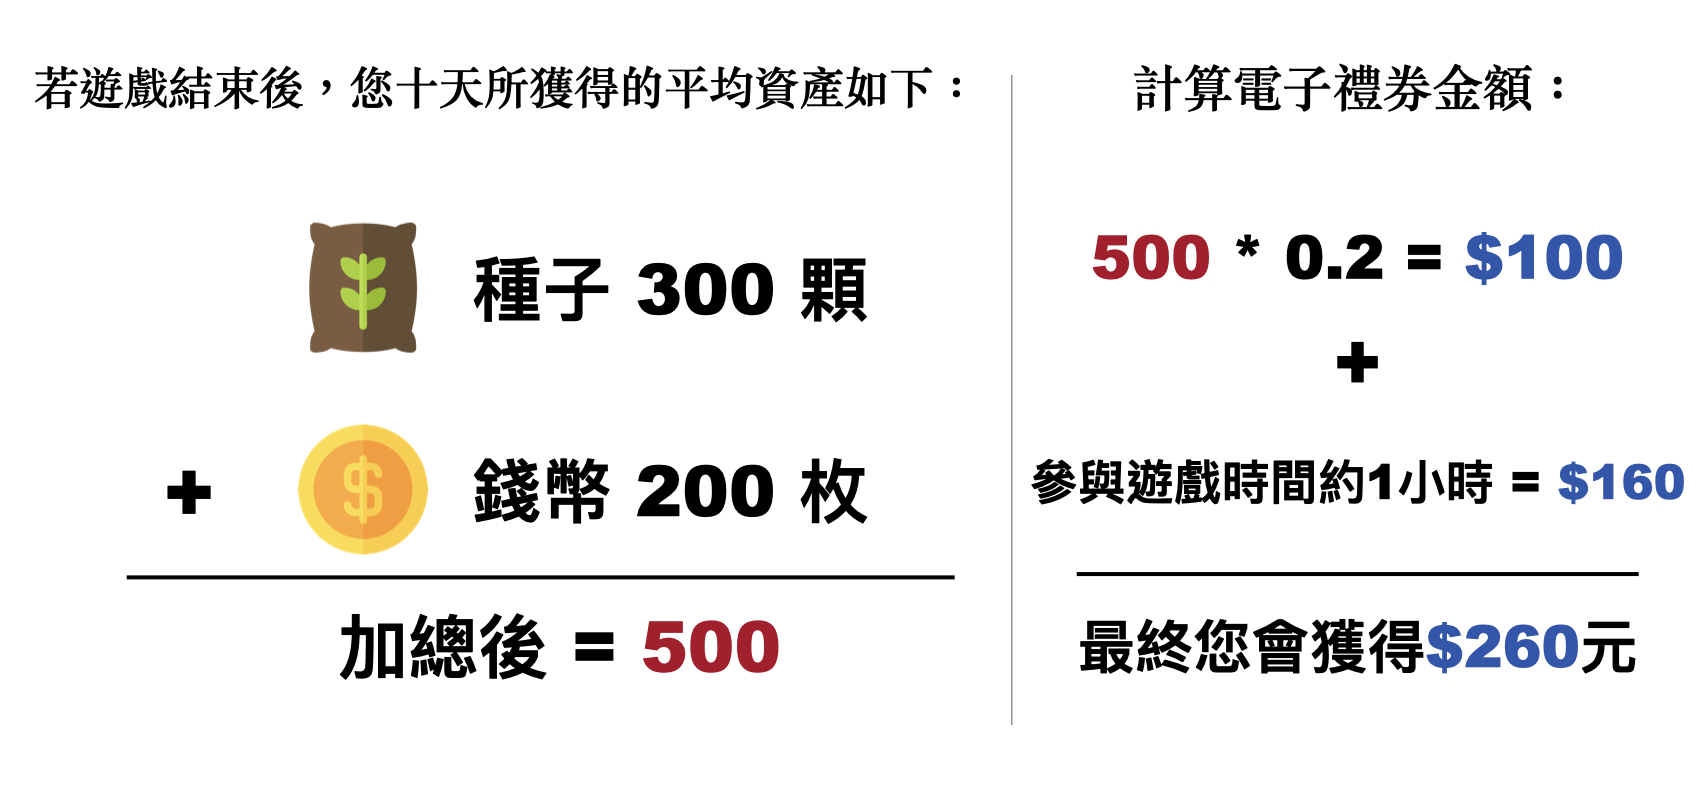
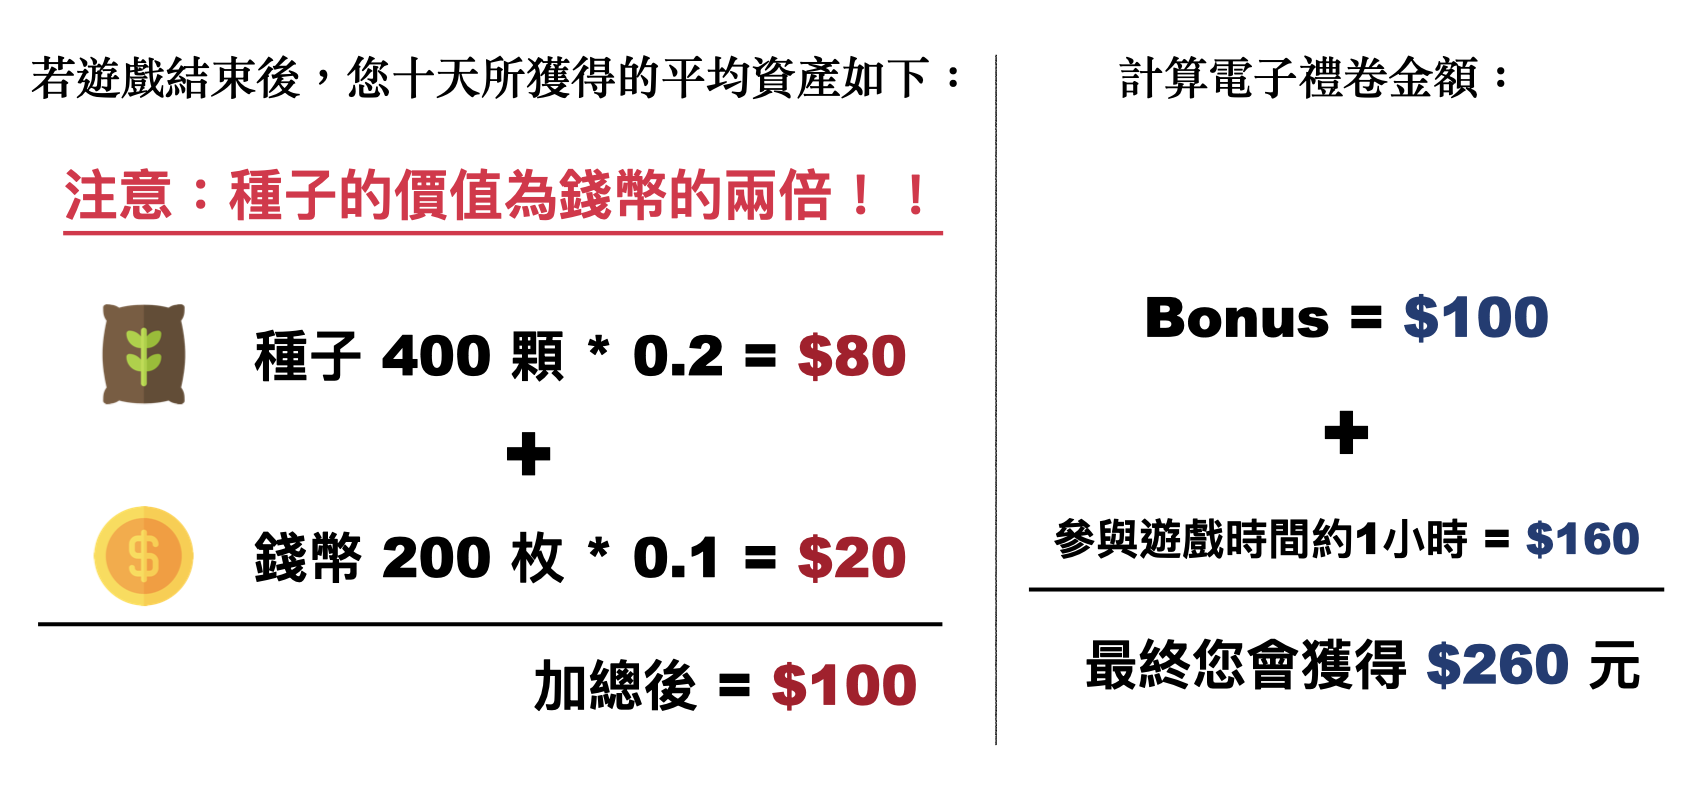
Add files via upload

diff --git a/meteor_instruction_1/index.html b/meteor_instruction_1/index.html
@@ -62,7 +62,8 @@
                         <blockquote class="instr">
                             10天結束後，除了參與遊戲的固定報酬(NT$160/時)，系統將會計算玩家<b>10天總共的資產平均數量</b>，且利用以下的公式來計算支付玩家額外的電子禮券：<br><br>
 
-                            <b>(10天平均種子數＋10天平均錢幣數) x 0.2 = 玩家額外所獲得的金額</b>
+                            <b>10天平均種子數 x 0.2 ＋ 10天平均錢幣數 x 0.1 = 玩家額外所獲得的金額</b><br><br>
+                            <p style="font-size: 24px;"><i>注意：種子的價值為錢幣的兩倍！！！</i></p>
                         </blockquote>
                     </div>
                     <div class="row hide" data-step="3" data-title="報酬計算方式說明">
